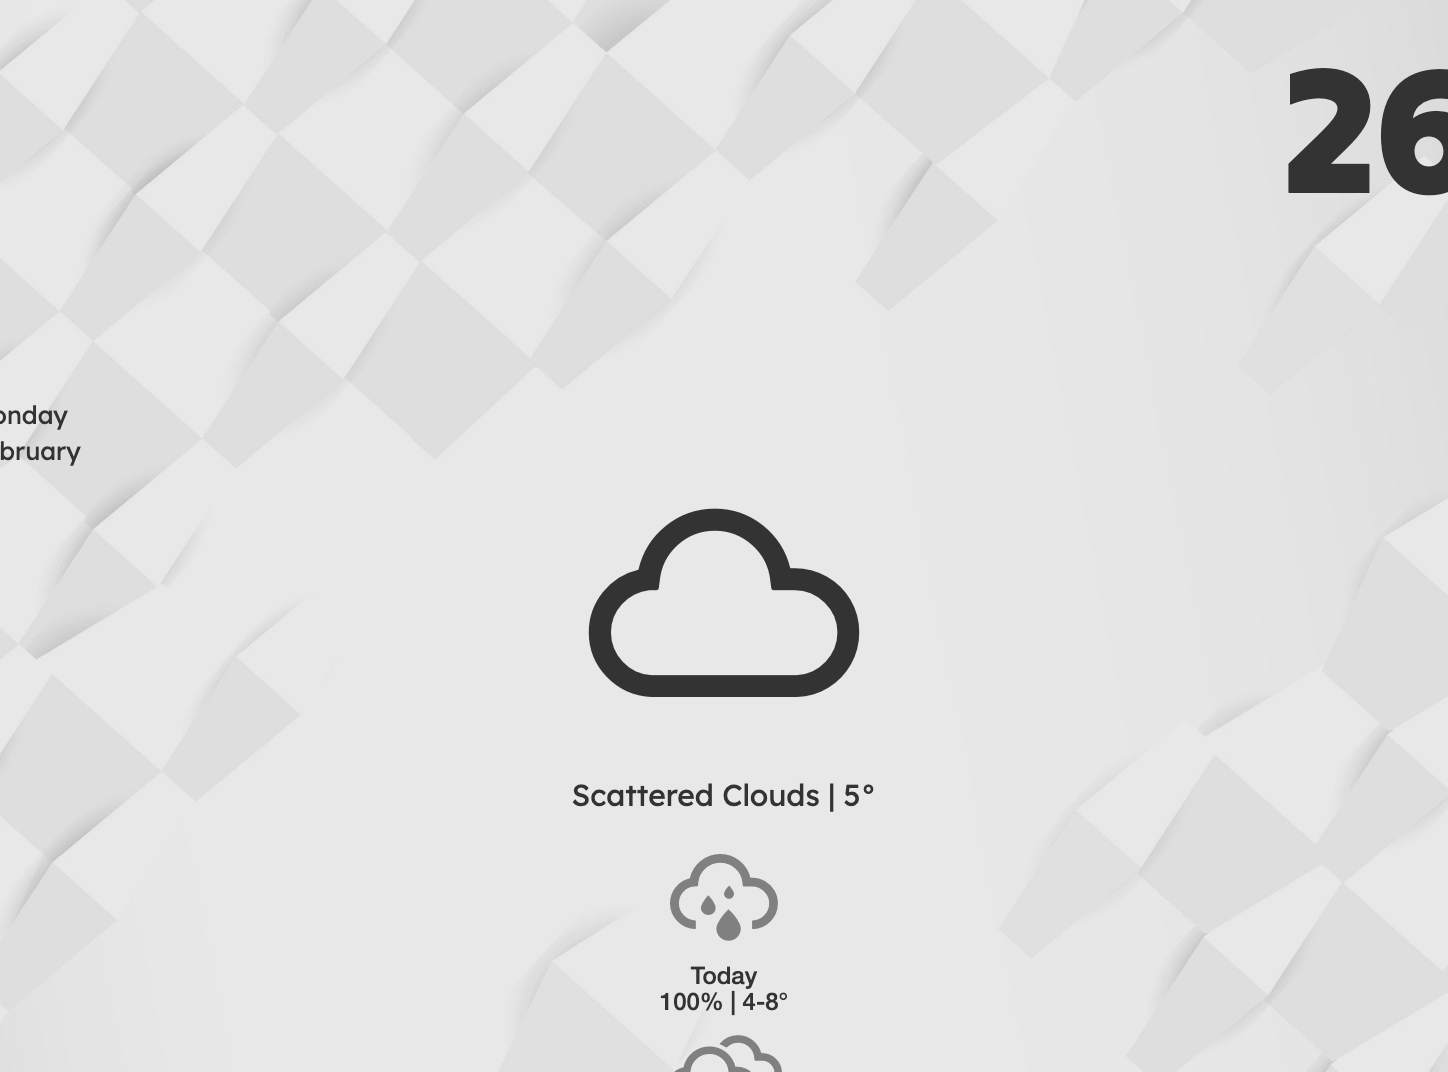
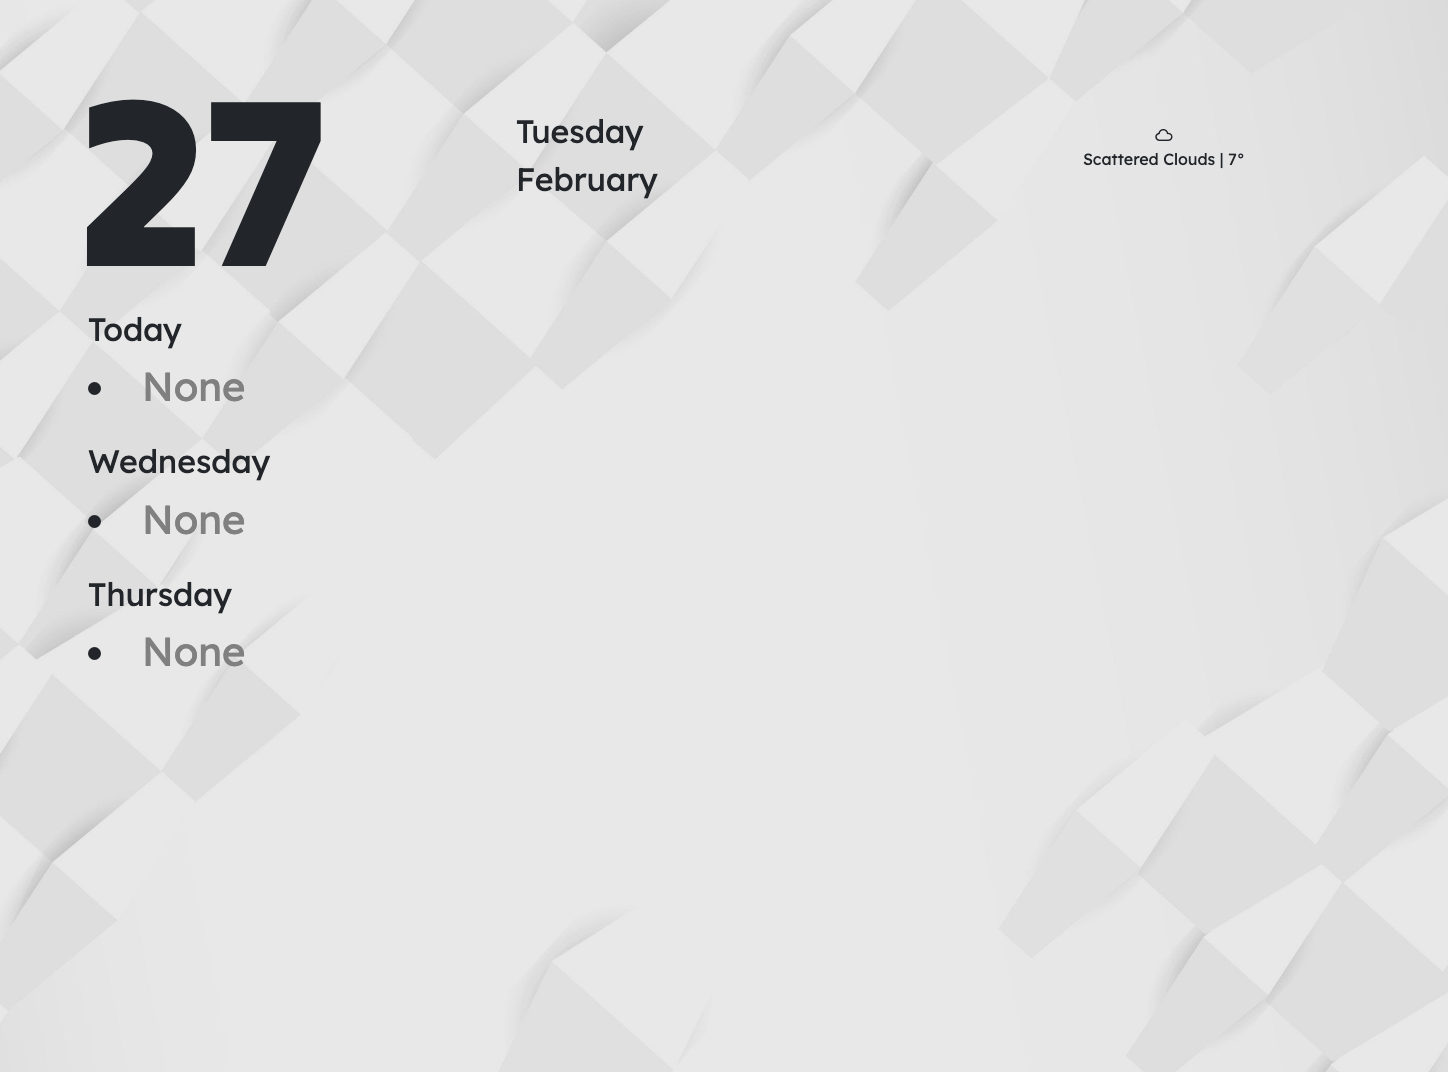
Reformatted successfully

diff --git a/render/dashboard_template.html b/render/dashboard_template.html
@@ -4,135 +4,76 @@
         <meta charset="utf-8">
         <meta http-equiv="X-UA-Compatible" content="IE=edge">
         <meta name="viewport" content="width=device-width, initial-scale=1">
-        <link rel="stylesheet" href="css/bootstrap.min.css">
+        
+        <script src="bootstrap/bootstrap.min.js"></script>
+        <link rel="stylesheet" href="bootstrap/bootstrap.min.css">
         <link rel="stylesheet" href="css/styles.css">
         <link rel="stylesheet" href="css/weather-icons.min.css">
+
     </head>
+    
     <body style="background: url('background.jpg') no-repeat center center fixed; background-size: cover;">
         <div class="container">
-            <!-- Calendar -->
-            <div class="row justify-content-center">
-                <div class="col-md-6">
-                    <div class="row">
-                        <div class="col-md-12">
-                            <div class="row">
-                                <div class="col-md-6 date-padding">
-                                    <div class="text-right">
-                                        <p class="big-day">{day}</p>
-                                    </div>
-                                </div>
-                                <div class="col-md-6 date-padding">
-                                    <div class="col-md-12"  style="height: 130px"></div>
-                                    <div>
-                                        <p style="font-size: 2.5rem">{weekday}<br />{month}</p>
-                                    </div>
-                                </div>
-                            </div>
-                        </div>
-                    </div>
-                    <div class="row align-items-start ">
-                        <div class="col-md-12 text-center">
-                            <i class="wi wi-owm-{current_weather_id}" style="font-size: 25rem"></i>
-                        </div>
-                    </div>
-                    <div class="row align-items-start ">
-                        <div class="col-md-12"  style="height: 30px"></div>
-                    </div>
-                    <div class="row align-items-start ">
-                        <div class="col-md-12 text-center">
-                            <h2>{current_weather_text} | {current_weather_temp}°</h2>
-                        </div>
-                    </div>
-                    <div class="row align-items-start ">
-                        <div class="col-md-12"  style="height: 20px"></div>
-                    </div>
-                    <div class="row align-items-start ">
-                        <div class="col-md-4">
-                            <div class="row align-items-start ">
-                                <div class="col-md-12 text-center">
-                                    <i class="wi wi-owm-{today_weather_id}" style="font-size: 10rem; color:gray"></i>
-                                </div>
-                            </div>
-                            <div class="row align-items-start ">
-                                <div class="col-md-12 text-center">
-                                    <h3>Today<br />{today_weather_pop}% | {today_weather_min}-{today_weather_max}°</h3>
-                                </div>
-                            </div>
-                        </div>
-                        <div class="col-md-4">
-                            <div class="row align-items-start ">
-                                <div class="col-md-12 text-center">
-                                    <i class="wi wi-owm-{tomorrow_weather_id}" style="font-size: 10rem; color:gray"></i>
-                                </div>
-                            </div>
-                            <div class="row align-items-start ">
-                                <div class="col-md-12 text-center">
-                                    <h3>{tomorrow}<br />{tomorrow_weather_pop}% | {tomorrow_weather_min}-{tomorrow_weather_max}°</h3>
-                                </div>
-                            </div>
-                        </div>
-                        <div class="col-md-4">
-                            <div class="row align-items-start ">
-                                <div class="col-md-12 text-center">
-                                    <i class="wi wi-owm-{dayafter_weather_id}" style="font-size: 10rem; color:gray"></i>
-                                </div>
-                            </div>
-                            <div class="row align-items-start ">
-                                <div class="col-md-12 text-center">
-                                    <h3>{dayafter}<br />{dayafter_weather_pop}% | {dayafter_weather_min}-{dayafter_weather_max}°</h3>
-                                </div>
-                            </div>
-                        </div>
-                    </div>
-                    <div class="row align-items-start ">
-                        <div class="col-md-12"  style="height: 50px"></div>
-                    </div>
+
+            <!-- Date & Weather -->
+            <div class="row justify-content-center v-center">
+                
+                <!-- Today's Date -->
+                <div class="col text-left">
+                    <p class="big-day" style="margin-bottom:-50px; text-align:left;">{day}</p>
                 </div>
-                <div class="col-md-6">
-                    <div class="row align-items-start ">
-                        <div class="col-md-12"  style="height: 50px"></div>
-                    </div>
-                    <div class="row align-items-start ">
-                        <div class="col-md-12">
-                            <h2>Today</h2>
-                            <ol class="list-unstyled">
-                                {events_today}
-                            </ol>
-                        </div>
-                    </div>
-                    <div class="row align-items-start ">
-                        <div class="col-md-12"  style="height: 10px"></div>
-                    </div>
-                    <div class="row align-items-start ">
-                        <div class="col-md-12">
-                            <h2>{tomorrow}</h2>
-                            <ol class="list-unstyled">
-                                {events_tomorrow}
-                            </ol>
-                        </div>
-                    </div>
-                    <div class="row align-items-start ">
-                        <div class="col-md-12"  style="height: 10px"></div>
-                    </div>
-                    <div class="row align-items-start ">
-                        <div class="col-md-12">
-                            <h2>{dayafter}</h2>
-                            <ol class="list-unstyled">
-                                {events_dayafter}
-                            </ol>
-                        </div>
-                    </div>
-                    <div class="row align-items-start ">
-                        <div class="col-md-12"  style="height: 10px"></div>
-                    </div>
-                    <div class="row align-items-start ">
-                        <div class="col-md-12">
-                            <h2>{topic_title}</h2>
-                            <div class="did-you-know">{topic_text}</div>
-                        </div>
-                    </div>
+
+                <div class="col text-left">
+                    <p style="font-size: 2.5rem; margin : 0; padding-top:0; font-size: 2rem;">
+                        {weekday}
+                        <br />
+                        {month}
+                    </p>
+                </div>
+                
+                <!-- Today's weather -->
+                <div class="col text-center">    
+                    <i class="wi wi-owm-{current_weather_id}" style="font-size: 25rem"></i>
+                    <p>{current_weather_text} | {current_weather_temp}°</p>
+            </div>
+
+            <!-- Space -->
+            <div class="row align-items-start ">
+                <div class="col-6"  style="height: 10px"></div>
+            </div>
+            
+            <!-- Calendar -->
+            <div class="row align-items-start ">
+                <div class="col-6">
+                    <h2>Today</h2>
+                    <ol class="list-unstyled">
+                        {events_today}
+                    </ol>
+
+                    <h2>{tomorrow}</h2>
+                    <ol class="list-unstyled">
+                        {events_tomorrow}
+                    </ol>
+
+                    <h2>{dayafter}</h2>
+                    <ol class="list-unstyled">
+                        {events_dayafter}
+                    </ol>
                 </div>
             </div>
+            
+            <!-- Todoist -->
+            <div class="col-6">
+                <h2>Tasks</h2>
+                <ol class="list-unstyled">
+                    <div class="event"><span class="event-time">Thing 1</span></div>
+                    <div class="event"><span class="event-time">Thing 2</span></div>
+                    <div class="event"><span class="event-time">Thing 3</span></div>
+                    <div class="event"><span class="event-time">Thing 4</span></div>
+                    <div class="event"><span class="event-time">Thing 5</span></div>
+                </ol>
+            </div>
+            
         </div>
     </body>
 </html>

diff --git a/render/dashboard.html b/render/dashboard.html
@@ -9,28 +9,73 @@
         <link rel="stylesheet" href="bootstrap/bootstrap.min.css">
         <link rel="stylesheet" href="css/styles.css">
         <link rel="stylesheet" href="css/weather-icons.min.css">
-        
+
     </head>
     
     <body style="background: url('background.jpg') no-repeat center center fixed; background-size: cover;">
         <div class="container">
 
-            <div class="row justify-content-center">
+            <!-- Date & Weather -->
+            <div class="row justify-content-center v-center">
                 
                 <!-- Today's Date -->
                 <div class="col text-left">
-                    <p class="big-day" style="margin-bottom:-50px; text-align:left; padding-left:0; margin-left:-8px">26</p>
-                    <p style="font-size: 2.5rem; margin : 0; padding-top:0;">Monday<br />February</p>
+                    <p class="big-day" style="margin-bottom:-50px; text-align:left;">27</p>
+                </div>
+
+                <div class="col text-left">
+                    <p style="font-size: 2.5rem; margin : 0; padding-top:0; font-size: 2rem;">
+                        Tuesday
+                        <br />
+                        February
+                    </p>
                 </div>
                 
                 <!-- Today's weather -->
                 <div class="col text-center">    
-                    <i class="wi wi-owm-1" style="font-size: 25rem"></i>
+                    <i class="wi wi-owm-802" style="font-size: 10rem"></i>
+                    <p style="font-size: 2.5rem;">Scattered Clouds | 7°</p>
+            </div>
+
+            <!-- Break -->
+            <div class="row align-items-start ">
+                <div class="col-6"  style="height: 10px"></div>
+            </div>
+            
+            
+            <div class="row align-items-start ">
+                
+                <!-- Calendar -->
+                <div class="col-6">
+
+                    <h2>Today</h2>
+                    <ol class="list-unstyled">
+                        <div class="event"><span class="event-time">None</span></div>
+                    </ol>
+
+                    <h2>Tomorrow</h2>
+                    <ol class="list-unstyled">
+                        <div class="event"><span class="event-time">None</span></div>
+                    </ol>
+
+                    <h2>Day after</h2>
+                    <ol class="list-unstyled">
+                        <div class="event"><span class="event-time">None</span></div>
+                    </ol>
                 </div>
 
-                <div class="col text-right">
-                    <h2>Current weather | 2°</h2>
+                <!-- Todoist -->
+                <div class="col-6">
+                    <h2>Tasks</h2>
+                    <ol class="list-unstyled">
+                        <div class="event"><span class="event-time">Thing 1</span></div>
+                        <div class="event"><span class="event-time">Thing 2</span></div>
+                        <div class="event"><span class="event-time">Thing 3</span></div>
+                        <div class="event"><span class="event-time">Thing 4</span></div>
+                        <div class="event"><span class="event-time">Thing 5</span></div>
+                    </ol>
                 </div>
+
             </div>
 
         </div>

diff --git a/render/css/styles.css b/render/css/styles.css
@@ -27,7 +27,7 @@ h1, h2, p, span, .h1, .h2, .p, .span  {
 
 .big-day {
     font-family: "TiltWarp-Regular", sans-serif;
-    font-size: 18rem;
+    font-size: 15rem;
 }
 
 .event {
@@ -60,4 +60,11 @@ h1, h2, p, span, .h1, .h2, .p, .span  {
   padding-left:10;
   padding-top:0;
   padding-bottom:0;
+}
+
+.v-center {
+    display: flex;
+    align-items: center;
+    justify-content: center;
+    /* height: 100vh; /* Ensure the container takes up the full viewport height */
 }

diff --git a/render/render.py b/render/render.py
@@ -101,6 +101,7 @@ class RenderHelper:
 
         # Append the bottom and write the file
         htmlFile = open(self.currPath + '/dashboard.html', "w")
+        
         htmlFile.write(dashboard_template.format(
             day=current_date.strftime("%-d"),
             month=current_date.strftime("%B"),
@@ -120,38 +121,20 @@ class RenderHelper:
             current_weather_text=string.capwords(hourly_forecast[1]["weather"][0]["description"]),
             current_weather_id=hourly_forecast[1]["weather"][0]["id"],
             current_weather_temp=round(hourly_forecast[1]["temp"]),
-            today_weather_id=daily_forecast[0]["weather"][0]["id"],
-            tomorrow_weather_id=daily_forecast[1]["weather"][0]["id"],
-            dayafter_weather_id=daily_forecast[2]["weather"][0]["id"],
-            today_weather_pop=str(round(daily_forecast[0]["pop"] * 100)),
-            tomorrow_weather_pop=str(round(daily_forecast[1]["pop"] * 100)),
-            dayafter_weather_pop=str(round(daily_forecast[2]["pop"] * 100)),
-            today_weather_min=str(round(daily_forecast[0]["temp"]["min"])),
-            tomorrow_weather_min=str(round(daily_forecast[1]["temp"]["min"])),
-            dayafter_weather_min=str(round(daily_forecast[2]["temp"]["min"])),
-            today_weather_max=str(round(daily_forecast[0]["temp"]["max"])),
-            tomorrow_weather_max=str(round(daily_forecast[1]["temp"]["max"])),
-            dayafter_weather_max=str(round(daily_forecast[2]["temp"]["max"])),
-
-            # current_weather_text="Current weather",
-            # current_weather_id=1,
-            # current_weather_temp=2,
-            # today_weather_id=3,
-            # tomorrow_weather_id=4,
-            # dayafter_weather_id=5,
-            # today_weather_pop=6,
-            # tomorrow_weather_pop=7,
-            # dayafter_weather_pop=8,
-            # today_weather_min=9,
-            # tomorrow_weather_min=10,
-            # dayafter_weather_min=11,
-            # today_weather_max=12,
-            # tomorrow_weather_max=13,
-            # dayafter_weather_max=14,
-
             
-            topic_title=topic["title"],
-            topic_text=topic["text"]
+            
+            # today_weather_id=daily_forecast[0]["weather"][0]["id"],
+            # tomorrow_weather_id=daily_forecast[1]["weather"][0]["id"],
+            # dayafter_weather_id=daily_forecast[2]["weather"][0]["id"],
+            # today_weather_pop=str(round(daily_forecast[0]["pop"] * 100)),
+            # tomorrow_weather_pop=str(round(daily_forecast[1]["pop"] * 100)),
+            # dayafter_weather_pop=str(round(daily_forecast[2]["pop"] * 100)),
+            # today_weather_min=str(round(daily_forecast[0]["temp"]["min"])),
+            # tomorrow_weather_min=str(round(daily_forecast[1]["temp"]["min"])),
+            # dayafter_weather_min=str(round(daily_forecast[2]["temp"]["min"])),
+            # today_weather_max=str(round(daily_forecast[0]["temp"]["max"])),
+            # tomorrow_weather_max=str(round(daily_forecast[1]["temp"]["max"])),
+            # dayafter_weather_max=str(round(daily_forecast[2]["temp"]["max"])),
         ))
         htmlFile.close()
 
